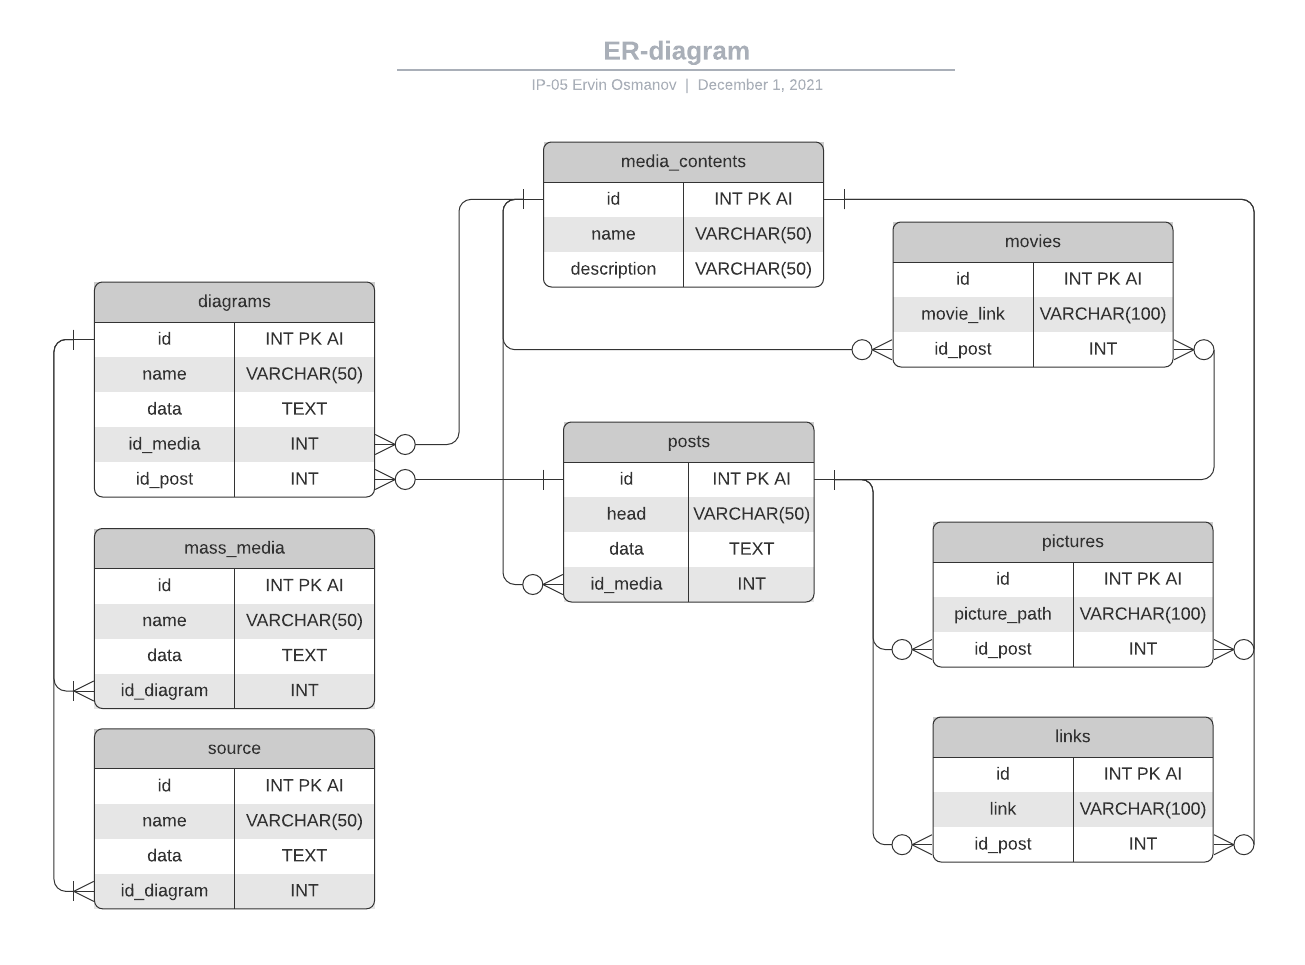
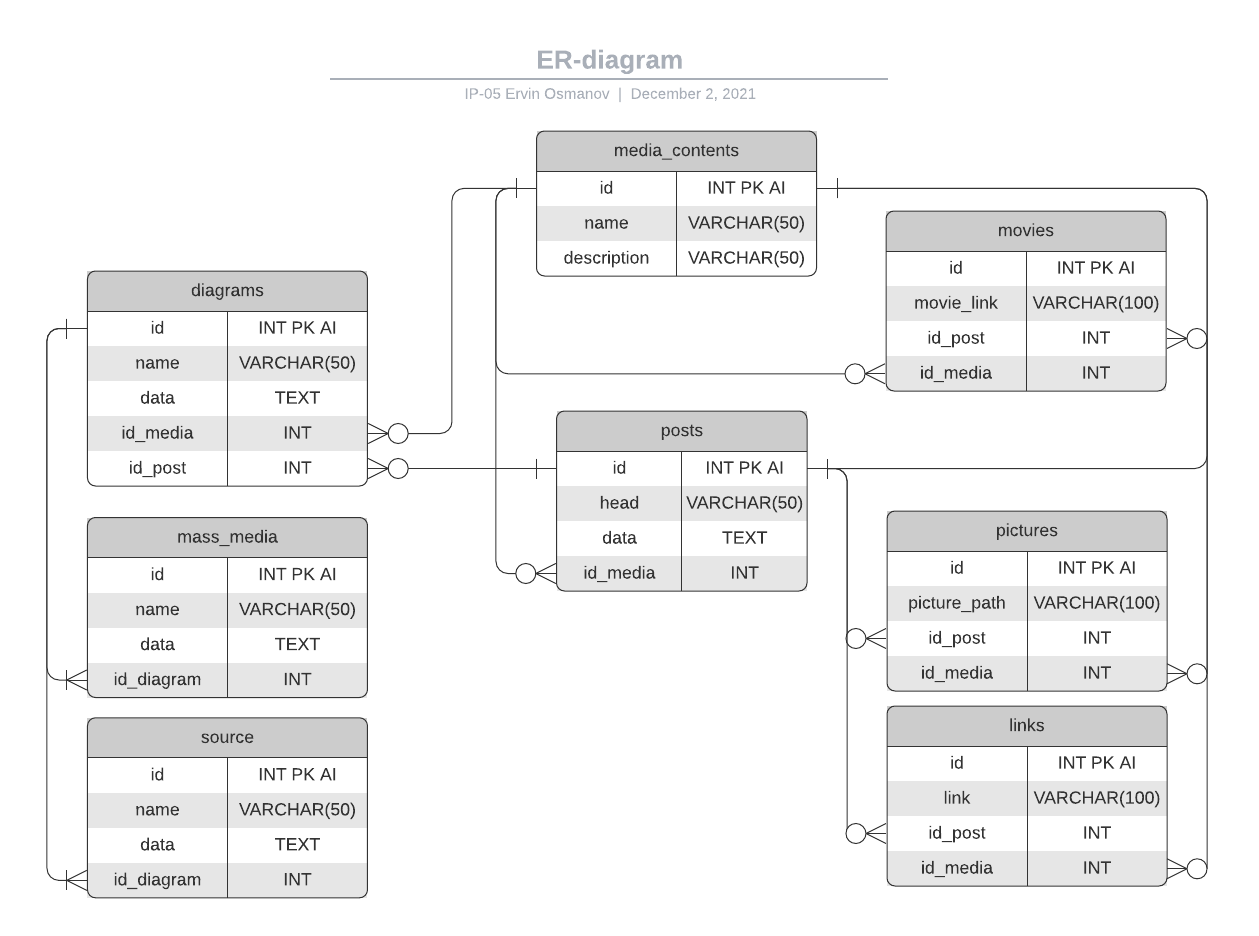
fix er-diagram, relational and mesql realization

Changed region(s): [[0.031, 0.031, 0.9603, 0.9605]]

diff --git a/docs/design/README.md b/docs/design/README.md
@@ -47,56 +47,59 @@ users "1,1" - "0,*" reports
 @startuml
 
 entity media_contents <<ENTITY>> {
-    id INT PRIMARY KEY AUTO INCREMENT,
-    name VARCHAR,
+    id INT PRIMARY KEY AUTO INCREMENT
+    name VARCHAR
     description VARCHAR
 }
 
 entity posts <<ENTITY>> {
-    id INT PRIMARY KEY AUTO INCREMENT,
-    hea` VARCHAR,
-    data TEXT,
-    id_media INT,
+    id INT PRIMARY KEY AUTO INCREMENT
+    hea` VARCHAR
+    data TEXT
+    id_media INT
 }
 
 entity movies <<ENTITY>> {
-    id INT PRIMARY KEY AUTO INCREMENT,
-    movie_link VARCHAR,
-    id_post INT,
+    id INT PRIMARY KEY AUTO INCREMENT
+    movie_link VARCHAR
+    id_post INT
+    id_media INT
 }
 
 entity pictures <<ENTITY>> {
-    id INT PRIMARY KEY AUTO INCREMENT,
-    picture_path VARCHAR,
-    id_post INT,
+    id INT PRIMARY KEY AUTO INCREMENT
+    picture_path VARCHAR
+    id_post INT
+    id_media INT
 }
 
 entity links <<ENTITY>> {
-    id INT PRIMARY KEY AUTO INCREMENT,
-    link VARCHAR,
-    id_post INT,
+    id INT PRIMARY KEY AUTO INCREMENT
+    link VARCHAR
+    id_post INT
+    id_media INT
 }
 
 entity diagrams <<ENTITY>> {
-    id INT PRIMARY KEY AUTO INCREMENT,
-    name VARCHAR,
-    data TEXT,
-    id_media INT,
-    id_post INT,
+    id INT PRIMARY KEY AUTO INCREMENT
+    name VARCHAR
+    data TEXT
+    id_media INT
+    id_post INT
 }
 
 entity mass_media <<ENTITY>> {
-    id INT PRIMARY KEY AUTO INCREMENT,
-    name VARCHAR,
-    data text,
-    id_diagram INT,
+    id INT PRIMARY KEY AUTO INCREMENT
+    name VARCHAR
+    data TEXT
+    id_diagram INT
 }
 
 entity source <<ENTITY>> {
-    id INT PRIMARY KEY AUTO INCREMENT,
-    name VARCHAR,
-    data text,
-    id_diagram INT,
+    id INT PRIMARY KEY AUTO INCREMENT
+    name VARCHAR
+    data TEXT
+    id_diagram INT
 }
 
 media_contents "1,1" -- "0,*" diagrams
@@ -158,37 +161,30 @@ CREATE TABLE `questions` (
 
 ```
 CREATE TABLE `media_contents` (
-  `id` INT PRIMARY KEY AUTO INCREMENT,
+  `id` INT PK AI,
   `name` VARCHAR(50),
   `description` VARCHAR(50)
 );
 
 CREATE TABLE `posts` (
-  `id` INT PRIMARY KEY AUTO INCREMENT,
+  `id` INT PK AI,
   `head` VARCHAR(50),
   `data` TEXT,
   `id_media` INT,
   FOREIGN KEY (`id_media`) REFERENCES `media_contents`(`id`)
 );
 
-CREATE TABLE `pictures` (
-  `id` INT PRIMARY KEY AUTO INCREMENT,
-  `picture_path` VARCHAR(100),
+CREATE TABLE `movies` (
+  `id` INT PK AI,
+  `movie_link` VARCHAR(100),
   `id_post` INT,
+  `id_media` INT,
   FOREIGN KEY (`id_post`) REFERENCES `posts`(`id`),
-  FOREIGN KEY (`id_post`) REFERENCES `media_contents`(`id`)
-);
-
-CREATE TABLE `links` (
-  `id` INT PRIMARY KEY AUTO INCREMENT,
-  `link` VARCHAR(100),
-  `id_post` INT,
-  FOREIGN KEY (`id_post`) REFERENCES `posts`(`id`),
-  FOREIGN KEY (`id_post`) REFERENCES `media_contents`(`id`)
+  FOREIGN KEY (`id_media`) REFERENCES `media_contents`(`id`)
 );
 
 CREATE TABLE `diagrams` (
-  `id` INT PRIMARY KEY AUTO INCREMENT,
+  `id` INT PK AI,
   `name` VARCHAR(50),
   `data` TEXT,
   `id_media` INT,
@@ -197,28 +193,38 @@ CREATE TABLE `diagrams` (
   FOREIGN KEY (`id_post`) REFERENCES `posts`(`id`)
 );
 
-CREATE TABLE `source` (
-  `id` INT PRIMARY KEY AUTO INCREMENT,
-  `name` VARCHAR(50),
-  `data` TEXT,
-  `id_diagram` INT,
-  FOREIGN KEY (`id_diagram`) REFERENCES `diagrams`(`id`)
-);
-
 CREATE TABLE `mass_media` (
-  `id` INT PRIMARY KEY AUTO INCREMENT,
+  `id` INT PK AI,
   `name` VARCHAR(50),
   `data` TEXT,
   `id_diagram` INT,
   FOREIGN KEY (`id_diagram`) REFERENCES `diagrams`(`id`)
 );
 
-CREATE TABLE `movies` (
-  `id` INT PRIMARY KEY AUTO INCREMENT,
-  `movie_link` VARCHAR(100),
+CREATE TABLE `source` (
+  `id` INT PK AI,
+  `name` VARCHAR(50),
+  `data` TEXT,
+  `id_diagram` INT,
+  FOREIGN KEY (`id_diagram`) REFERENCES `diagrams`(`id`)
+);
+
+CREATE TABLE `links` (
+  `id` INT PK AI,
+  `link` VARCHAR(100),
   `id_post` INT,
-  FOREIGN KEY (`id_post`) REFERENCES `media_contents`(`id`),
-  FOREIGN KEY (`id_post`) REFERENCES `posts`(`id`)
+  `id_media` INT,
+  FOREIGN KEY (`id_post`) REFERENCES `posts`(`id`),
+  FOREIGN KEY (`id_media`) REFERENCES `media_contents`(`id`)
+);
+
+CREATE TABLE `pictures` (
+  `id` INT PK AI,
+  `picture_path` VARCHAR(100),
+  `id_post` INT,
+  `id_media` INT,
+  FOREIGN KEY (`id_post`) REFERENCES `posts`(`id`),
+  FOREIGN KEY (`id_media`) REFERENCES `media_contents`(`id`)
 );
 
 ```
